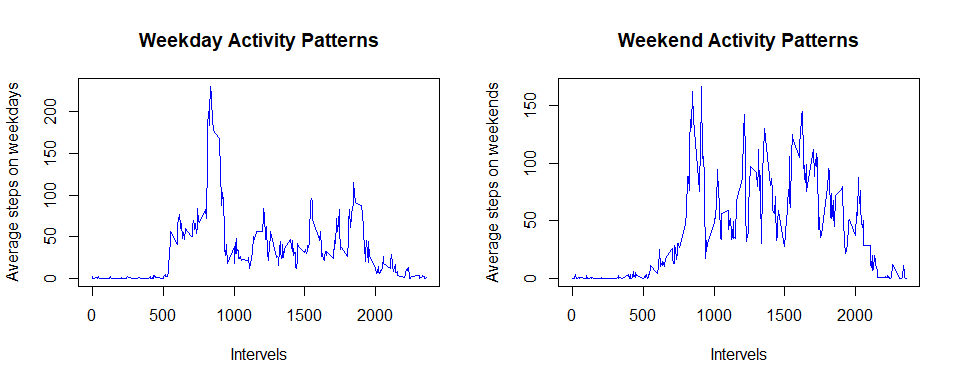
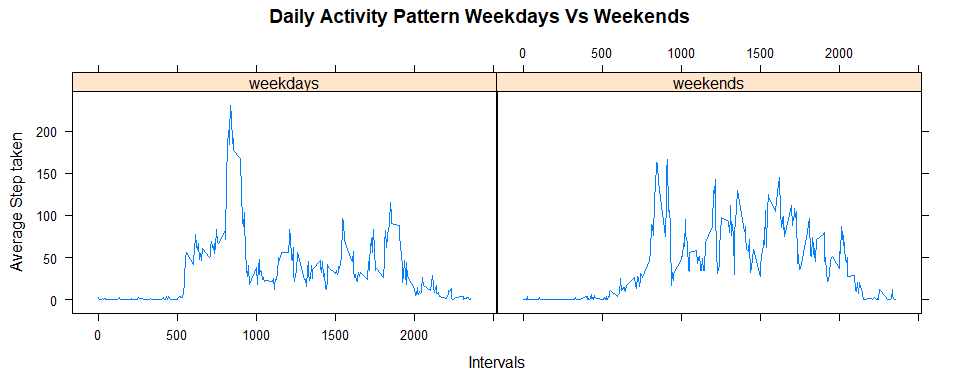
updated code and figure

diff --git a/PA1_template.html b/PA1_template.html
@@ -369,31 +369,7 @@ summary {
 <div id="loading-and-preprocessing-the-data" class="section level2">
 <h2>Loading and preprocessing the data</h2>
 <pre class="r"><code>#Loading
-data&lt;-read.csv(&#39;activity.csv&#39;,header = T,colClasses = c(&#39;numeric&#39;,&#39;Date&#39;,&#39;character&#39;))
-
-#Preprocessing
-interval_type1&lt;- nchar(data$interval) %in% c(1,2)
-interval_type2&lt;- nchar(data$interval)== 3
-interval_type3&lt;- nchar(data$interval)==4
-
-for (i in seq_along(data$interval)){
-  if (interval_type1[i] == TRUE) {
-    data$m_interval[i]&lt;- paste(&#39;0&#39;,data$interval[i],sep =&#39;:&#39; )
-    
-  }else if(interval_type2[i] == TRUE){
-    split_interval&lt;- strsplit(data$interval[i],split = &#39;&#39;)
-    i_min&lt;- paste(split_interval[[1]][2],split_interval[[1]][3],sep =&#39;&#39; )
-    i_hour&lt;-split_interval[[1]][1]
-    data$m_interval[i]&lt;- paste(i_hour,i_min,sep =&#39;:&#39; )
-  }else if(interval_type3[i] == TRUE){
-    split_interval&lt;- strsplit(data$interval[i],split = &#39;&#39;)
-    i_min&lt;- paste(split_interval[[1]][3],split_interval[[1]][4],sep =&#39;&#39; )
-    i_hour&lt;-paste(split_interval[[1]][1],split_interval[[1]][2],sep =&#39;&#39; )
-    data$m_interval[i]&lt;- paste(i_hour,i_min,sep =&#39;:&#39; )
-  }
-}
-
-data$date_time&lt;- strftime(paste(data$date,data$m_interval,sep =&#39; &#39; ),&#39;%Y-%m-%d %H:%M&#39;)</code></pre>
+data&lt;-read.csv(&#39;activity.csv&#39;,header = T,colClasses = c(&#39;numeric&#39;,&#39;Date&#39;,&#39;character&#39;))</code></pre>
 </div>
 <div id="what-is-mean-total-number-of-steps-taken-per-day" class="section level2">
 <h2>What is mean total number of steps taken per day?</h2>
@@ -471,7 +447,7 @@ length(no_fo_NA)</code></pre>
 # filling missing values
 merge_data$steps[which(is.na(merge_data$steps))] = round(merge_data$means[which(is.na(merge_data$steps))])
 # creating New dataset
-new_dataset = merge_data[,c(2,3,1,4,5)]
+new_dataset = merge_data[,c(2,3,1)]
 new_dataset = arrange(.data = new_dataset,date)</code></pre>
 <pre class="r"><code>new_dataset&lt;- group_by(new_dataset,date)
 new_day_steps&lt;-summarise(.data = new_dataset,count = sum(steps))
@@ -522,21 +498,12 @@ new_dataset[new_dataset$weekday %in% c(&quot;Sun&quot;,&quot;Sat&quot;),]$weekda
 new_dataset[new_dataset$weekday %in% c(&quot;Mon&quot;,&quot;Tue&quot;,&quot;Wed&quot;,&quot;Thu&quot;,&quot;Fri&quot;),]$weekday =&#39;weekdays&#39; 
 new_dataset$weekday&lt;- as.factor(new_dataset$weekday)</code></pre>
 <pre class="r"><code># Adding package &quot;ggplot2&quot; to make plots
-library(ggplot2)
-#making plot
-par(mfrow=c(1,2))
-#weekdays
-weekday_data &lt;- new_dataset[new_dataset$weekday == &quot;weekdays&quot;,]
-weekday_data = group_by(weekday_data,interval)
-weekday_mean = summarise(.data = weekday_data ,means = mean(steps,na.rm = TRUE))
-plot(weekday_mean$interval,weekday_mean$means,type =&quot;l&quot;,col = &quot;blue&quot;,xlab = &#39;Intervels&#39;,ylab = &#39;Average steps on weekdays&#39;,main = &#39;Weekday Activity Patterns&#39; )
-
-# weekends
-weekend_data &lt;- new_dataset[new_dataset$weekday == &quot;weekends&quot;,]
-weekend_data = group_by(weekend_data,interval)
-weekend_mean = summarise(.data = weekend_data ,means = mean(steps,na.rm = TRUE))
-plot(weekend_mean$interval,weekend_mean$means,type =&quot;l&quot;,col = &quot;blue&quot;,xlab = &#39;Intervels&#39;,ylab = &#39;Average steps on weekends&#39;,main = &#39;Weekend Activity Patterns&#39; )</code></pre>
[1 lines of base64/hex data omitted]
+library(lattice)
+new_dataset&lt;- group_by(new_dataset,interval,weekday)
+averages&lt;- summarise(new_dataset,mean = mean(steps))
+xyplot(mean~interval|weekday,data = averages,type = &#39;l&#39;,xlab =&#39;Intervals&#39;,ylab = &#39;Average Step taken&#39;
+        ,main = &#39;Daily Activity Pattern Weekdays Vs Weekends&#39;)</code></pre>
[1 lines of base64/hex data omitted]
 </div>
 
 

diff --git a/PA1_template.md b/PA1_template.md
@@ -9,30 +9,6 @@ output:
 ```r
 #Loading
 data<-read.csv('activity.csv',header = T,colClasses = c('numeric','Date','character'))
-
-#Preprocessing
-interval_type1<- nchar(data$interval) %in% c(1,2)
-interval_type2<- nchar(data$interval)== 3
-interval_type3<- nchar(data$interval)==4
-
-for (i in seq_along(data$interval)){
-  if (interval_type1[i] == TRUE) {
-    data$m_interval[i]<- paste('0',data$interval[i],sep =':' )
-    
-  }else if(interval_type2[i] == TRUE){
-    split_interval<- strsplit(data$interval[i],split = '')
-    i_min<- paste(split_interval[[1]][2],split_interval[[1]][3],sep ='' )
-    i_hour<-split_interval[[1]][1]
-    data$m_interval[i]<- paste(i_hour,i_min,sep =':' )
-  }else if(interval_type3[i] == TRUE){
-    split_interval<- strsplit(data$interval[i],split = '')
-    i_min<- paste(split_interval[[1]][3],split_interval[[1]][4],sep ='' )
-    i_hour<-paste(split_interval[[1]][1],split_interval[[1]][2],sep ='' )
-    data$m_interval[i]<- paste(i_hour,i_min,sep =':' )
-  }
-}
-
-data$date_time<- strftime(paste(data$date,data$m_interval,sep =' ' ),'%Y-%m-%d %H:%M')
 ```
 
 ## What is mean total number of steps taken per day?
@@ -149,7 +125,7 @@ merge_data  = merge(data,int_mean)
 # filling missing values
 merge_data$steps[which(is.na(merge_data$steps))] = round(merge_data$means[which(is.na(merge_data$steps))])
 # creating New dataset
-new_dataset = merge_data[,c(2,3,1,4,5)]
+new_dataset = merge_data[,c(2,3,1)]
 new_dataset = arrange(.data = new_dataset,date)
 ```
 
@@ -224,20 +200,11 @@ new_dataset$weekday<- as.factor(new_dataset$weekday)
 
 ```r
 # Adding package "ggplot2" to make plots
-library(ggplot2)
-#making plot
-par(mfrow=c(1,2))
-#weekdays
-weekday_data <- new_dataset[new_dataset$weekday == "weekdays",]
-weekday_data = group_by(weekday_data,interval)
-weekday_mean = summarise(.data = weekday_data ,means = mean(steps,na.rm = TRUE))
-plot(weekday_mean$interval,weekday_mean$means,type ="l",col = "blue",xlab = 'Intervels',ylab = 'Average steps on weekdays',main = 'Weekday Activity Patterns' )
-
-# weekends
-weekend_data <- new_dataset[new_dataset$weekday == "weekends",]
-weekend_data = group_by(weekend_data,interval)
-weekend_mean = summarise(.data = weekend_data ,means = mean(steps,na.rm = TRUE))
-plot(weekend_mean$interval,weekend_mean$means,type ="l",col = "blue",xlab = 'Intervels',ylab = 'Average steps on weekends',main = 'Weekend Activity Patterns' )
+library(lattice)
+new_dataset<- group_by(new_dataset,interval,weekday)
+averages<- summarise(new_dataset,mean = mean(steps))
+xyplot(mean~interval|weekday,data = averages,type = 'l',xlab ='Intervals',ylab = 'Average Step taken'
+        ,main = 'Daily Activity Pattern Weekdays Vs Weekends')
 ```
 
 ![](PA1_template_files/figure-html/unnamed-chunk-12-1.png)<!-- -->
